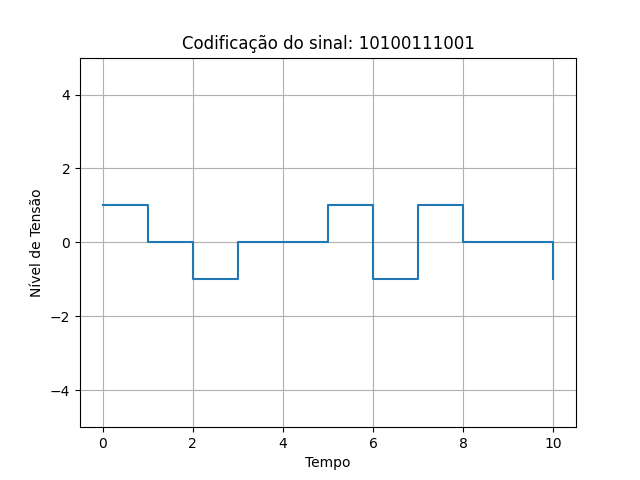
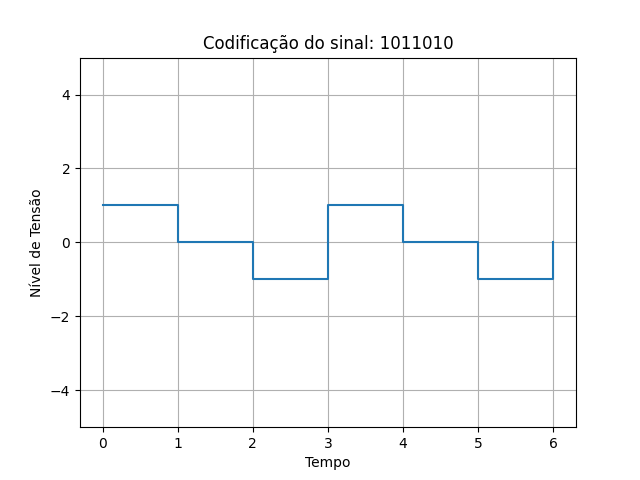
fixed NRZ I

diff --git a/Trabalho1/codificadores.py b/Trabalho1/codificadores.py
@@ -29,7 +29,7 @@ def nrz_l(bits: str) -> list[int]:
 
 def nrz_i(bits: str) -> list[int]:
     result = []
-    level = 1
+    level = -1
     for bit in bits:
         if bit == '1':
             level *= -1
@@ -113,7 +113,6 @@ def hdb3(bits: str) -> list[int]:
                 result.append(0)
             i += 1
     return result
-
 
 def mlt_3(bits: str) -> list[int]:
     result = []

diff --git a/Trabalho1/main.py b/Trabalho1/main.py
@@ -1,7 +1,7 @@
 from codificadores import b8zs, nrz_l, nrz_i, ami, pseudoternary, manchester, manchester_differential, hdb3, mlt_3, ternary_nrz, unipolar_rz
 from plot import plot_sinal
 
-bits = "10100111001"
+bits = "1011010"
 sinal_b8zs = b8zs(bits)
 sinal_nrzl = nrz_l(bits)
 sinal_nrzi = nrz_i(bits)
